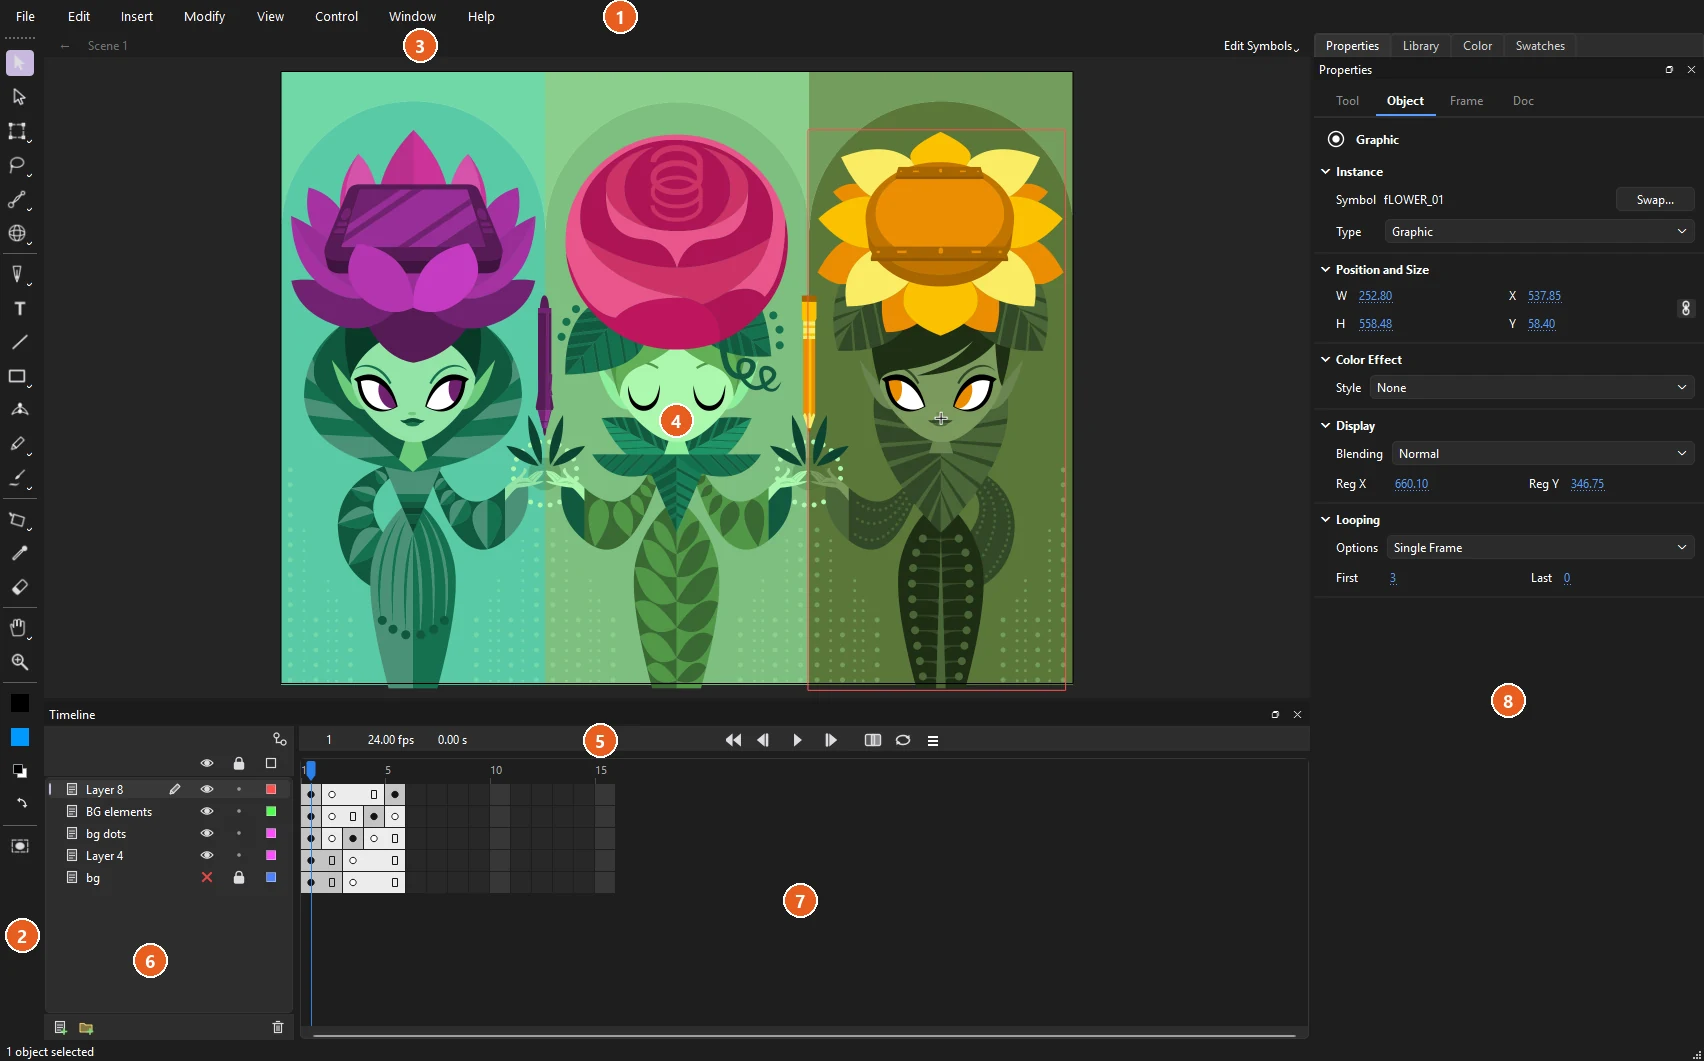
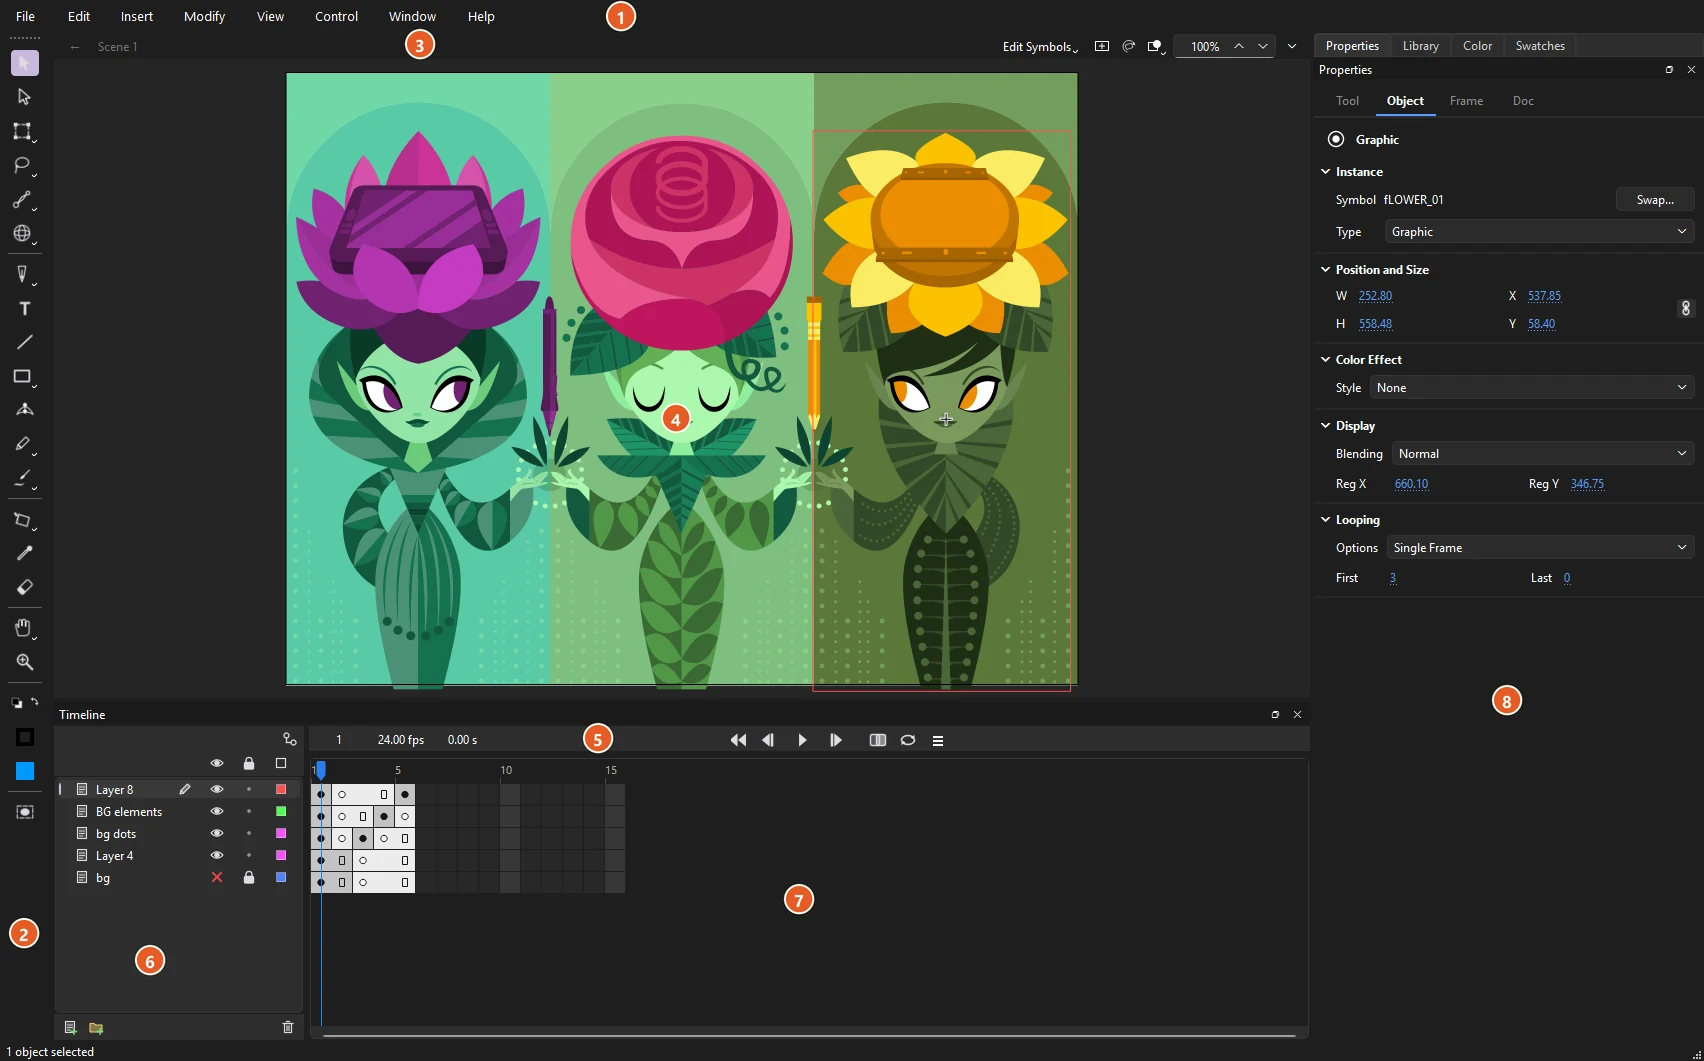
Docs: retake nine screenshots for the current edit bar and toolbox

diff --git a/docs/timeline.html b/docs/timeline.html
@@ -94,7 +94,7 @@
 <p>Right-click a layer and choose <strong>Properties...</strong> to set several things at once:</p>
 
 <div class="split">
-  <figure style="margin:0"><img src="assets/shots/layer-properties.webp" alt="Layer Properties dialog with name, show and lock, layer type, outline color and view as outlines" width="341" height="384"></figure>
+  <figure style="margin:0"><img src="assets/shots/layer-properties.webp" alt="Layer Properties dialog with name, show and lock, layer type, outline color and view as outlines" width="352" height="414"></figure>
   <dl class="defs" style="grid-template-columns:1fr">
     <dt>Name, Show and Lock</dt><dd>The same as the controls in the layer row.</dd>
     <dt>Type</dt><dd><strong>Normal</strong>, <strong>Guide</strong>, <strong>Guided</strong>, <strong>Mask</strong>, <strong>Masked</strong> or <strong>Folder</strong>; a layer can't become a folder, nor a folder a layer. See <a href="masks-guides.html">Masks and guides</a>.</dd>

diff --git a/docs/bones.html b/docs/bones.html
@@ -20,7 +20,7 @@
 <p class="lead">An <strong>armature</strong> is a chain of bones inside a shape or between symbols. Drag the end of the chain and the joints bend to follow, which is called inverse kinematics (IK). Build armatures of symbols with the Bone tool, and pose and play them along with the armatures in FLA files.</p>
 
 <figure>
-  <img src="assets/shots/bones.webp" alt="A green curved shape with three bones drawn inside it as slim blue kites joined by round joints, and a pose span in the timeline" width="1100" height="830">
+  <img src="assets/shots/bones.webp" alt="A green curved shape with three bones drawn inside it as slim blue kites joined by round joints, and a pose span in the timeline" width="1256" height="794">
   <figcaption>A shape armature. Its layer's timeline shows a pose span.</figcaption>
 </figure>
 

diff --git a/docs/symbols.html b/docs/symbols.html
@@ -65,7 +65,7 @@
 </dl>
 
 <figure>
-  <img src="assets/shots/edit-in-place.webp" alt="A flower character symbol open for editing in place, with the other characters dimmed and the edit bar reading Scene 1 then fLOWER_01" width="1266" height="664">
+  <img src="assets/shots/edit-in-place.webp" alt="A flower character symbol open for editing in place, with the other characters dimmed and the edit bar reading Scene 1 then fLOWER_01" width="1256" height="664">
   <figcaption>Editing a symbol in place. The edit bar shows the path from the scene into the symbol.</figcaption>
 </figure>
 
